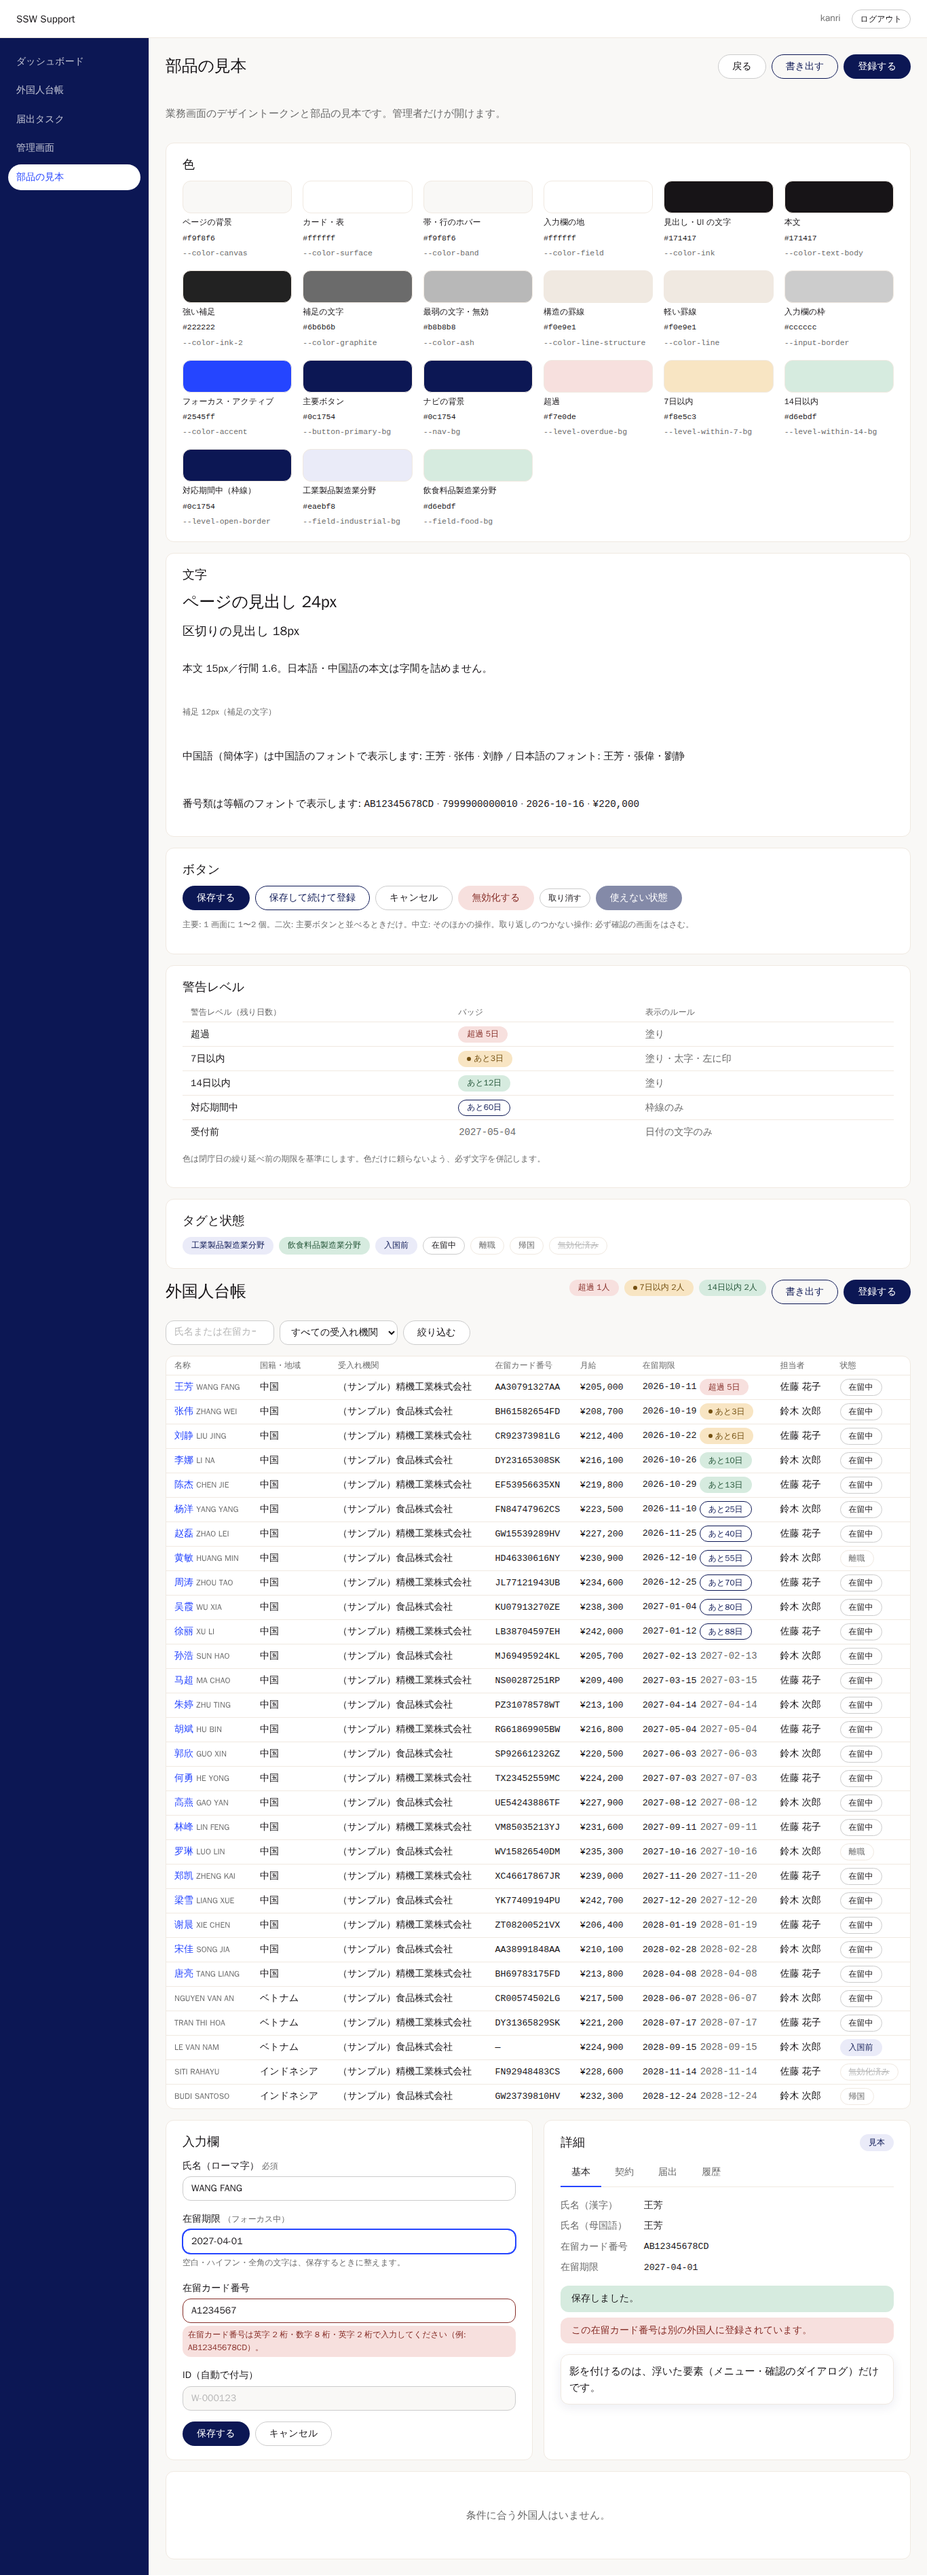
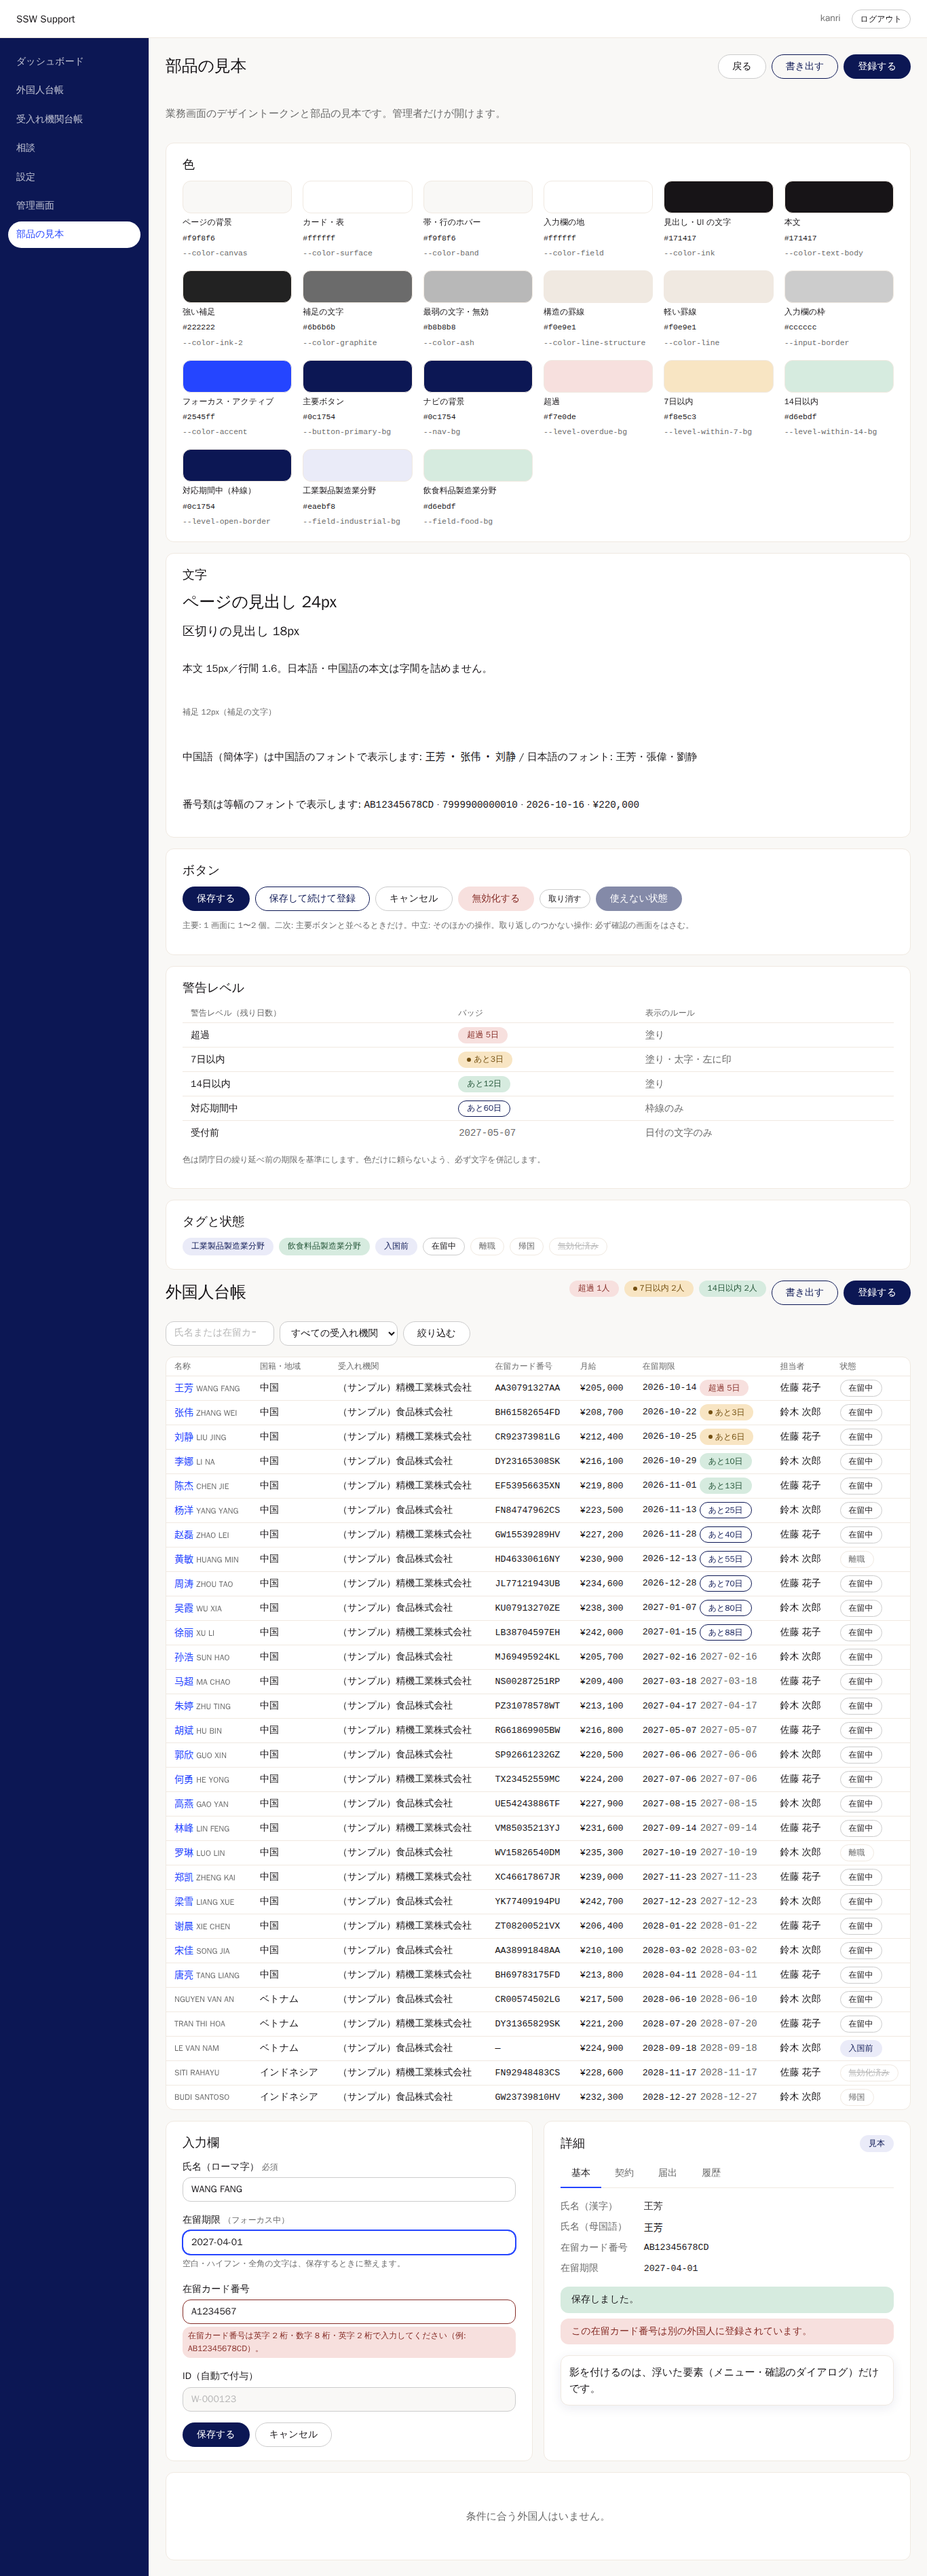
feat: 段階3の受け入れ確認 make gate3（署名・生成履歴・日中併記・警告・生成不可を画面で通す）を足し、第5-5号・第5-6号の Excel の構造の比べと design-shots の撮り直しを行う（T40）

diff --git a/backend/e2e/test_phase3_gate.py b/backend/e2e/test_phase3_gate.py
@@ -1,0 +1,232 @@
+"""段階3の受け入れ確認（T40 の A。make gate3 のときだけ動く。通常の make e2e では飛ばす）。
+
+seed_dummy と seed_documents（T39）を流し、担当者（dummy_tanto）が画面だけで次を通す。管理画面
+（/admin/）には 1 度も行かない。
+1. 署名済み書類の回収のタスク → 帳票タブ → 署名済みのスキャンを添付 → 署名済み・タスク完了。
+2. 支援計画書（第1-17号）を 2 回生成（同じ内容でも別の生成履歴）。Excel の構造は公式のブックと同じ。
+3. 事前ガイダンスの確認書を日中併記の版で生成（25 番。中国語）。PDF にパスワード・印刷禁止が無い。
+4. 警告付きの生成（15 番の第13-1号。警告を確かめる印が要る）。生成履歴に警告が残る。
+5. 加入証明なしの生成不可（31 番の第3-1号。「加入の証明書が添付されていません」）→ 不足の
+   「直す」から受入れ機関の画面へ。申請の書類の一覧で加入の証明書の行が未添付。
+
+- 基準日は今日。GATE_DATE=YYYY-MM-DD で変えられる（gate2 と同じく、アプリの「今」をずらす）。
+- 操作の時間は参考として出すだけ（手間の測定は人が行う。docs/tasks-phase3.md の A）。
+"""
+
+import json
+import os
+import time
+from collections.abc import Iterator
+from datetime import date, datetime
+from io import StringIO
+from pathlib import Path
+from urllib.parse import urlparse
+
+import pytest
+from django.core.management import call_command
+from django.utils import timezone
+from playwright.sync_api import Page, Request, expect
+from pypdf import PdfReader
+from pytest_django.fixtures import Settings
+from pytest_django.live_server_helper import LiveServer
+
+from apps.core.models import User
+from apps.filings.models import Filing, FilingKind, FilingStatus
+from apps.forms_engine.models import GeneratedDocument, GenerationStatus
+from apps.seed import document_builders
+from apps.seed.context import DUMMY_USERNAME
+from apps.seed.models import SeedObject
+from apps.support.models import Briefing, SupportPlan
+from apps.workers.models import ForeignWorker
+from e2e.conftest import SignIn
+from services import contracts
+from services.support_catalog import SupportItem
+from tests.conftest import PDF_BYTES
+from tests.core.factories import TEST_PASSWORD
+from tests.forms_engine.test_files import ORIGINAL_1_17, structure
+
+pytestmark = pytest.mark.skipif(os.environ.get("GATE3") != "1", reason="make gate3 のときだけ動く")
+
+GUIDANCE_BILINGUAL = 25  # 入国前・中国語・完全な事前ガイダンス（seed の GUIDANCE_COMPLETE）
+WITH_WARNINGS = 15
+UNCERTIFIED = 31
+PLAN_TWICE = 3
+
+
+@pytest.fixture
+def base_date(monkeypatch: pytest.MonkeyPatch) -> date:
+    raw = os.environ.get("GATE_DATE", "")
+    if not raw:
+        return timezone.localdate()
+    target = date.fromisoformat(raw)
+    shift = target - timezone.localdate()
+    real_now = timezone.now
+
+    def shifted() -> datetime:
+        return real_now() + shift
+
+    monkeypatch.setattr(timezone, "now", shifted)
+    return target
+
+
+@pytest.fixture
+def seeded(settings: Settings, tmp_path: Path, base_date: date) -> list[ForeignWorker]:
+    """seed_dummy の 31 人と、seed_documents の生成物の場面。"""
+    settings.DEBUG = True
+    settings.ALLOW_DUMMY_DATA = True
+    settings.STORAGES = {
+        **settings.STORAGES,
+        "default": {
+            "BACKEND": "django.core.files.storage.FileSystemStorage",
+            "OPTIONS": {"location": str(tmp_path / "media")},
+        },
+    }
+    call_command("load_form_templates", stdout=StringIO())
+    call_command("seed_dummy", "--date", base_date.isoformat(), stdout=StringIO())
+    call_command("seed_documents", stdout=StringIO())
+    user = User.objects.get(username=DUMMY_USERNAME)
+    user.set_password(TEST_PASSWORD)
+    user.save(update_fields=["password"])
+    ids = SeedObject.objects.filter(content_type__model="foreignworker").values("object_id")
+    return list(ForeignWorker.objects.filter(pk__in=ids).order_by("pk"))
+
+
+@pytest.fixture
+def admin_requests(page: Page) -> Iterator[list[str]]:
+    seen: list[str] = []
+
+    def watch(request: Request) -> None:
+        if urlparse(request.url).path.startswith("/admin/"):
+            seen.append(request.url)
+
+    page.on("request", watch)
+    yield seen
+
+
+def generated(page: Page) -> GeneratedDocument:
+    expect(page.locator("#document-status")).to_have_text("生成しました。")
+    document_id = int(urlparse(page.url).path.rstrip("/").split("/")[-1])
+    return GeneratedDocument.objects.select_related("template").get(pk=document_id)
+
+
+def download_pdf(page: Page, tmp_path: Path) -> Path:
+    with page.expect_download() as info:
+        page.locator("#document-pdf").click()
+    path: Path = tmp_path / str(info.value.suggested_filename)
+    info.value.save_as(path)
+    return path
+
+
+def test_phase3_gate(
+    page: Page,
+    live_server: LiveServer,
+    sign_in: SignIn,
+    seeded: list[ForeignWorker],
+    base_date: date,
+    admin_requests: list[str],
+    tmp_path: Path,
+) -> None:
+    page.set_viewport_size({"width": 1366, "height": 900})
+    worker = {number: seeded[number - 1] for number in range(1, len(seeded) + 1)}
+    assert len(seeded) == 31
+    sign_in(User.objects.get(username=DUMMY_USERNAME))
+    base = live_server.url
+    started = time.monotonic()
+
+    # 1. 回収のタスク → 帳票タブ → 署名済みのスキャン → 署名済み・タスク完了
+    awaiting = GeneratedDocument.objects.get(
+        worker=worker[document_builders.COLLECTION], template__form_id="1-6"
+    )
+    task = Filing.objects.get(
+        kind=FilingKind.SIGNED_COPY_COLLECTION,
+        object_id=awaiting.pk,
+        status=FilingStatus.NOT_STARTED,
+    )
+    page.goto(f"{base}/filings/{task.pk}/")
+    page.locator("#open-documents").click()
+    row = page.locator(f'#generated-documents tr[data-document="{awaiting.pk}"]')
+    expect(row).to_have_attribute("data-state", "awaiting")
+    row.get_by_role("link", name="署名済みの書類を添付").click()
+    scan = tmp_path / "signed.pdf"
+    scan.write_bytes(PDF_BYTES)
+    page.get_by_label("署名済みのスキャン").set_input_files(str(scan))
+    page.get_by_label("署名日").fill(base_date.isoformat())
+    page.get_by_role("button", name="保存する").click()
+    expect(page.get_by_text("署名済みの書類を添付しました。")).to_be_visible()
+    expect(
+        page.locator(f'#generated-documents tr[data-document="{awaiting.pk}"]')
+    ).to_have_attribute("data-state", "signed")
+    task.refresh_from_db()
+    assert task.status == FilingStatus.COMPLETED
+
+    # 2. 支援計画書を 2 回生成（同じ内容でも別の生成履歴。Excel の構造は公式のブックと同じ）
+    plan = SupportPlan.objects.filter(worker=worker[PLAN_TWICE]).order_by("-pk").first()
+    assert plan is not None
+    documents = []
+    for _ in range(2):
+        page.goto(f"{base}/workers/{worker[PLAN_TWICE].pk}/support/")
+        page.locator("#plan-generate").click()
+        page.locator("#id_propriety").check()
+        page.get_by_role("button", name="検査する").click()
+        expect(page.locator("#generation-findings")).to_contain_text("不足はありません")
+        page.get_by_role("button", name="生成する").click()
+        documents.append(generated(page))
+    first, second = documents
+    assert first.pk != second.pk and first.status == second.status == GenerationStatus.COMPLETED
+    assert json.loads(first.snapshot)["data"] == json.loads(second.snapshot)["data"]
+    assert first.template_id == second.template_id and first.created_by is not None
+    expect(page.locator("#document-fields")).to_contain_text("第1版")
+    assert structure(Path(second.filled_file.path)) == structure(ORIGINAL_1_17)  # 制約3
+    assert not PdfReader(str(download_pdf(page, tmp_path))).is_encrypted
+
+    # 3. 日中併記の確認書（25 番。中国語）
+    briefing = Briefing.objects.get(
+        record__worker=worker[GUIDANCE_BILINGUAL], record__kind=SupportItem.PRE_GUIDANCE
+    )
+    page.goto(f"{base}/workers/{briefing.record.worker_id}/support/briefings/{briefing.pk}/")
+    page.locator("#briefing-generate").click()
+    expect(page.locator("#id_language")).to_have_value("ja-zh")
+    page.get_by_role("button", name="生成する").click()
+    bilingual = generated(page)
+    assert bilingual.template.language == "ja-zh"
+    expect(page.locator("#document-language")).to_have_attribute("data-language", "ja-zh")
+    pdf = PdfReader(str(download_pdf(page, tmp_path)))
+    assert not pdf.is_encrypted and len(pdf.pages) == bilingual.page_count == 2
+
+    # 4. 警告付きの生成（15 番の第13-1号）
+    contract = contracts.contract_on(worker[WITH_WARNINGS], base_date)
+    assert contract is not None
+    page.goto(f"{base}/workers/{contract.worker_id}/contracts/?contract={contract.pk}")
+    page.locator("#contract-application-generate").get_by_role(
+        "link", name="第13-1号を作る"
+    ).click()
+    expect(page.locator("#generation-findings")).to_contain_text("キャリアアッププラン")
+    page.get_by_role("button", name="生成する").click()
+    expect(page.locator("#generate-form")).to_contain_text("警告を確かめてから生成してください")
+    page.locator("#id_accept_warnings").check()
+    page.get_by_role("button", name="生成する").click()
+    warned = generated(page)
+    expect(page.locator("#document-findings")).to_contain_text("キャリアアッププラン")
+    assert [finding["code"] for finding in warned.findings] == ["career_plan_missing"]
+
+    # 5. 加入証明なしの生成不可（31 番の第3-1号）→「直す」で受入れ機関の画面へ
+    uncertified = worker[UNCERTIFIED]
+    page.goto(f"{base}/workers/{uncertified.pk}/documents/application/")
+    expect(page.locator('#application-set-rows [data-row="coe_ind-3-1"]')).to_have_attribute(
+        "data-status", "missing"
+    )
+    before = GeneratedDocument.objects.count()
+    contract = contracts.contract_on(uncertified, base_date)
+    assert contract is not None
+    page.goto(f"{base}/workers/{uncertified.pk}/contracts/?contract={contract.pk}")
+    page.locator("#contract-application-generate").get_by_role("link", name="第3-1号を作る").click()
+    findings = page.locator("#generation-findings")
+    expect(findings).to_contain_text("生成できません")
+    expect(findings).to_contain_text("加入の証明書（")
+    expect(page.get_by_role("button", name="生成する")).to_have_count(0)
+    findings.get_by_role("link", name="直す").first.click()
+    expect(page).to_have_url(f"{base}/hosts/{contract.host_organization_id}/")
+    assert GeneratedDocument.objects.count() == before
+
+    print(f"\n[gate3] {time.monotonic() - started:.1f} 秒（参考。合否には使わない）")
+    assert admin_requests == []

diff --git a/backend/tests/forms_engine/test_form_interview.py b/backend/tests/forms_engine/test_form_interview.py
@@ -137,6 +137,30 @@ def written_values(form_id: str, data: dict[str, Any]) -> dict[str, object]:
     return form_generation.field_values(mapping(form_id), data)
 
 
+def workbook_structure(path: Path) -> dict[str, object]:
+    """制約3: ファイルの一覧・結合セル・入力規則・保護・印刷の設定・名前の定義（T40 で足した）。"""
+    with zipfile.ZipFile(path) as archive:
+        sheet = archive.read("xl/worksheets/sheet1.xml").decode("utf-8")
+        workbook = archive.read("xl/workbook.xml").decode("utf-8")
+        return {
+            "files": archive.namelist(),
+            "page_setup": re.findall(r"<pageSetup[^>]*/>", sheet),
+            "margins": re.findall(r"<pageMargins[^>]*/>", sheet),
+            "print_options": re.findall(r"<printOptions[^>]*/>", sheet),
+            "header_footer": re.findall(r"<headerFooter.*?</headerFooter>", sheet, re.S),
+            "breaks": re.findall(r"<rowBreaks.*?</rowBreaks>", sheet, re.S),
+            "merges": re.findall(r"<mergeCell [^>]*/>", sheet),
+            "validations": re.findall(r"<dataValidations.*?</dataValidations>", sheet, re.S),
+            "protection": re.findall(r"<sheetProtection[^>]*/>", sheet),
+            "defined_names": re.findall(r"<definedName .*?</definedName>", workbook),
+            "others": {
+                name: archive.read(name)
+                for name in archive.namelist()
+                if name not in ("xl/worksheets/sheet1.xml", "xl/styles.xml")
+            },
+        }
+
+
 def check_document(document: GeneratedDocument, form_id: str, data: dict[str, Any]) -> None:
     document.refresh_from_db()
     assert document.status == GenerationStatus.COMPLETED, document.failure_reason
@@ -155,6 +179,8 @@ def check_document(document: GeneratedDocument, form_id: str, data: dict[str, An
     for target, value in values.items():
         got = str(filled[target.split("!")[1]].value)
         assert "".join(got.split()) == "".join(str(value).split()), target
+    # 制約3: シートの構造とほかのファイルは公式のブックと同じ（違うのは書いたセルと字の大きさだけ）
+    assert workbook_structure(Path(document.filled_file.path)) == workbook_structure(original)
 
 
 def test_reports_are_generated_together_from_the_interview(worker: Any) -> None:
